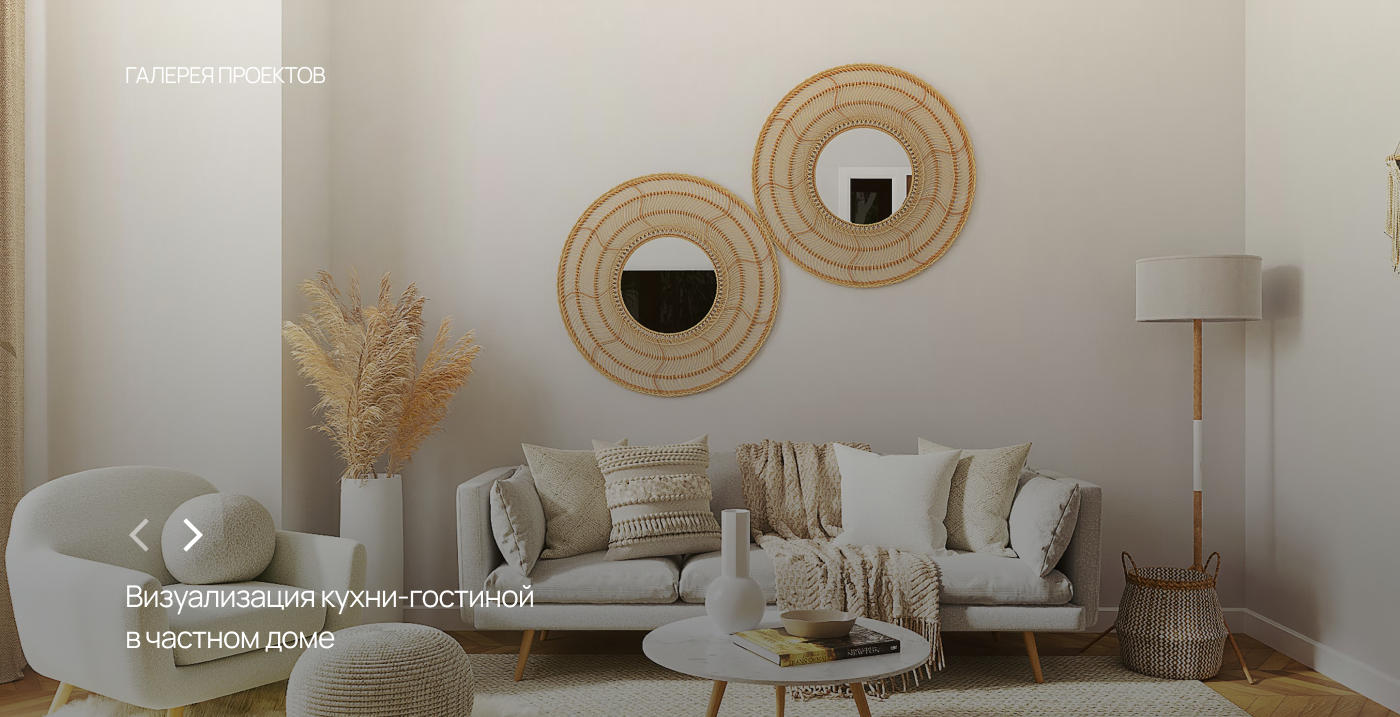
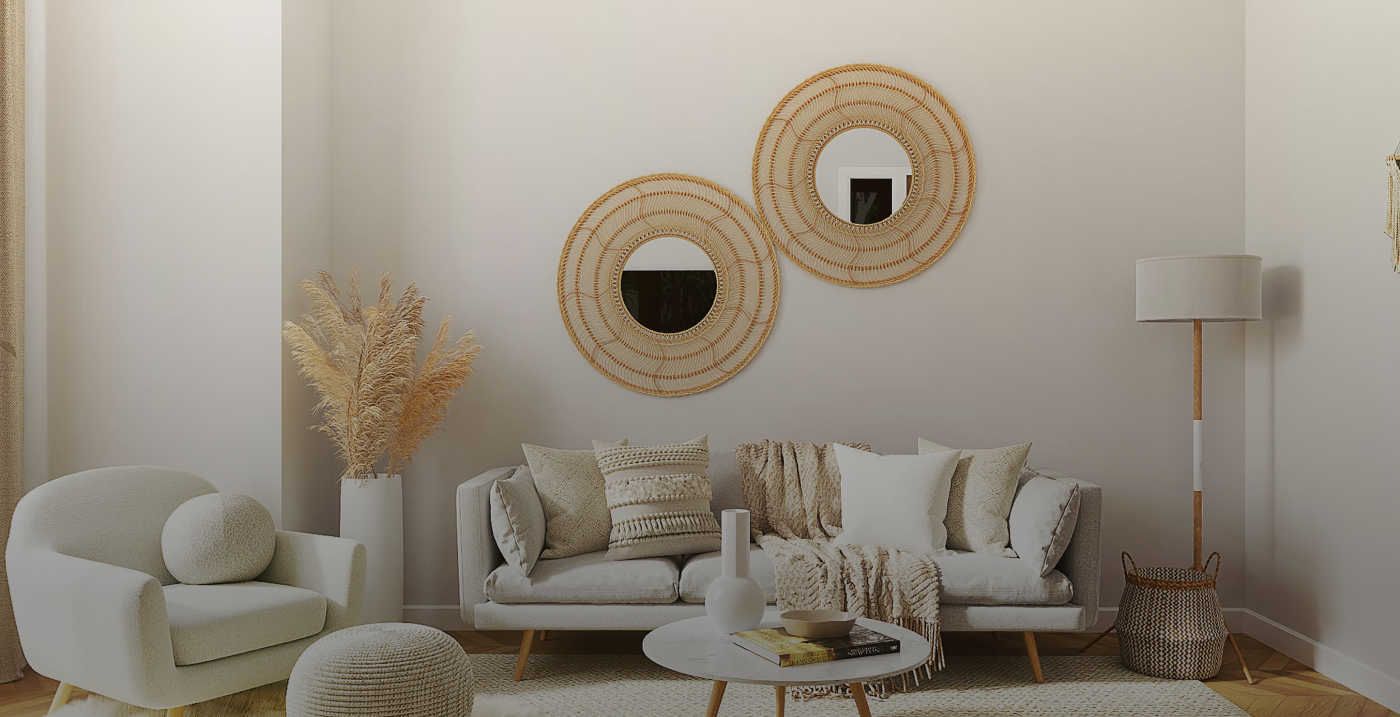
gallery block

Changed region(s): [[0.0921, 0.7978, 0.3993, 0.9205], [0.0921, 0.0921, 0.2457, 0.1227], [0.0921, 0.7364, 0.1536, 0.7671]]

diff --git a/index.html b/index.html
@@ -162,9 +162,53 @@
             </div>
         </section>
         <section class="gallery">
-            <div class="gallery__container _container">
-                <h2 class="gallery__title title">галерея проектов</h2>
-                <h3 class="gallery__subtitle">Проект Двухкомнатной квартиры в ЖК Лесной Пейзаж</h3>
+            <div class="gallery__title-wrapper">
+                <div class="_container">
+                    <h2 class="gallery__title title">галерея проектов</h2>
+                </div>
+            </div>
+            <div class="gallery__slides">
+                <div class="gallery__slide">
+                    <img src="img/gallery/1-1.png" alt="" class="gallery__pict">
+                    <div class="gallery__slide-wrapper">
+                        <div class="_container">
+                            <h3 class="gallery__subtitle">Проект  Двухкомнтаной квартиры в ЖК Лесной Пейзаж</h3>
+                        </div>
+                    </div>
+                </div>
+                <div class="gallery__slide gallery__slide_active">
+                    <img src="img/gallery/2.png" alt="" class="gallery__pict">
+                    <div class="gallery__slide-wrapper">
+                        <div class="_container">
+                            <h3 class="gallery__subtitle">Проект гостиной в ЖК Маяк</h3>
+                        </div>
+                    </div>
+                </div>
+                
+                <div class="gallery__slide">
+                    <img src="img/gallery/3.png" alt="" class="gallery__pict">
+                    <div class="gallery__slide-wrapper">
+                        <div class="_container">
+                            <h3 class="gallery__subtitle">Визуализация кухни-гостиной в частном доме</h3>
+                        </div>
+                    </div>
+                </div>
+                <div class="gallery__slide">
+                    <img src="img/gallery/4.png" alt="" class="gallery__pict">
+                    <div class="gallery__slide-wrapper">
+                        <div class="_container">
+                            <h3 class="gallery__subtitle">Проект кухни в скандинавском стиле для ЖК Северный Ветер</h3>
+                        </div>
+                    </div>
+                </div>
+                
+            </div>
+            <div class="_container">
+                <div class="gallery__controls">
+                
+                    <img class="gallery__control-prev" src="img/gallery/pref.png">
+                    <img class="gallery__control-next" src="img/gallery/next.png">
+                </div>
             </div>
         </section>
         <address class="contacts" id="contacts">
@@ -196,6 +240,9 @@
         </nav>
         <p class="footer__text">cтудия дизайна интерьера Метрика — 2023</p>
     </footer>
+    <script src="gallery.js"></script>
 </body>
 
 </html>
+
+<!-- Изменить медиа галереии, скачать моб фото проектов -->

diff --git a/#resources/layout/_gallery.scss b/#resources/layout/_gallery.scss
@@ -1,16 +1,13 @@
 .gallery {
-    background-image: url("../img/gallery/1-1.png");
-    background-size: cover;
-    background-repeat: no-repeat;
-    background-position: 50%;
-    height: 717px;
-
-    &__container {
-        margin-top: 10px;
-        position: relative;
-        height: 717px;
+    margin-top: 9px;
+    position: relative;
+    &__title-wrapper {
+        position: absolute;
+        top: 0;
+        left: 0;
+        width: 100%;
+        z-index: 10;
     }
-
     &__title {
         position: absolute;
         top: 60px;
@@ -19,12 +16,57 @@
         line-height: 30.05px;
     }
 
+    &__slides {
+        height: 717px;
+
+    }
+    &__slide {
+        position: absolute;
+        top: 0;
+        left: 0;
+        opacity: 0;
+        height: 717px;
+        width: 100%;
+
+        &_active {
+            opacity: 1;
+        }
+    }
+    &__pict {
+        position: absolute;
+        top: 0;
+        left: 0;
+        width: 100%;
+        height: 717px;
+        object-fit: cover;
+        object-position: 50%;
+    }
+    &__slide-wrapper {
+        position: absolute;
+        top: 0;
+        left: 0;
+        width: 100%;
+    }
     &__subtitle {
         position: absolute;
-        bottom: 60px;
+        top: 575px;
         font-size: 30px;
         line-height: 40.98px;
         width: 443px;
         color: white;
+    }
+    &__controls {
+        position: absolute;
+        top: 515px;
+        margin-left: -10px;
+        display: flex;
+    }
+    &__control-prev {
+        cursor: pointer;
+        margin-right: 14px;
+    }
+    &__control-next {
+        cursor: pointer;
+
     }
 }

diff --git a/css/style.css b/css/style.css
@@ -123,8 +123,7 @@ div {
 }
 
 .services,
-.reviews,
-.contacts {
+.reviews {
   padding-top: 150px;
 }
 
@@ -287,7 +286,7 @@ div {
 .reviews__list {
   display: flex;
   flex-wrap: wrap;
-  row-gap: 83px;
+  row-gap: 113px;
 }
 .reviews .review {
   margin-left: -2px;
@@ -308,16 +307,15 @@ div {
 }
 
 .gallery {
-  background-image: url("../img/gallery/1-1.png");
-  background-size: cover;
-  background-repeat: no-repeat;
-  background-position: 50%;
-  height: 717px;
-}
-.gallery__container {
-  margin-top: 10px;
+  margin-top: 9px;
   position: relative;
-  height: 717px;
+}
+.gallery__title-wrapper {
+  position: absolute;
+  top: 0;
+  left: 0;
+  width: 100%;
+  z-index: 10;
 }
 .gallery__title {
   position: absolute;
@@ -326,13 +324,55 @@ div {
   font-size: 22px;
   line-height: 30.05px;
 }
+.gallery__slides {
+  height: 717px;
+}
+.gallery__slide {
+  position: absolute;
+  top: 0;
+  left: 0;
+  opacity: 0;
+  height: 717px;
+  width: 100%;
+}
+.gallery__slide_active {
+  opacity: 1;
+}
+.gallery__pict {
+  position: absolute;
+  top: 0;
+  left: 0;
+  width: 100%;
+  height: 717px;
+  object-fit: cover;
+  object-position: 50%;
+}
+.gallery__slide-wrapper {
+  position: absolute;
+  top: 0;
+  left: 0;
+  width: 100%;
+}
 .gallery__subtitle {
   position: absolute;
-  bottom: 60px;
+  top: 575px;
   font-size: 30px;
   line-height: 40.98px;
   width: 443px;
   color: white;
+}
+.gallery__controls {
+  position: absolute;
+  top: 515px;
+  margin-left: -10px;
+  display: flex;
+}
+.gallery__control-prev {
+  cursor: pointer;
+  margin-right: 14px;
+}
+.gallery__control-next {
+  cursor: pointer;
 }
 
 .contacts__title {

diff --git a/gallery.js b/gallery.js
@@ -1,0 +1,38 @@
+const ACTIVE_SLIDE_CLASSNAME = 'gallery__slide_active';
+
+const slidesNodes = Array.from(document.querySelectorAll('.gallery__slide'));
+console.log(slidesNodes);
+const prevButtonNode = document.querySelector('.gallery__control-prev');
+const nextButtonNode = document.querySelector('.gallery__control-next');
+let activeId;
+
+init();
+
+function init() {
+    activeId = 0;
+    
+    prevButtonNode.addEventListener('click', () => {
+        console.log('hello');
+        setActiveSlideById(getPrevId());
+    });
+    
+    nextButtonNode.addEventListener('click', () => {
+        setActiveSlideById(getNextId());
+    });
+}
+
+function setActiveSlideById(id) {
+    const currentId = activeId;
+    activeId = id;
+
+    slidesNodes[currentId].classList.remove(ACTIVE_SLIDE_CLASSNAME);
+    slidesNodes[activeId].classList.add(ACTIVE_SLIDE_CLASSNAME);
+}
+
+function getPrevId() {
+    return activeId === 0 ? slidesNodes.length - 1 : activeId - 1;
+}
+
+function getNextId() {
+    return activeId === (slidesNodes.length - 1) ? 0: activeId + 1;
+}

diff --git a/#resources/layout/_reviews.scss b/#resources/layout/_reviews.scss
@@ -6,7 +6,7 @@
     &__list {
         display: flex;
         flex-wrap: wrap;
-        row-gap: 83px;
+        row-gap: 113px;
     }
     
     .review {

diff --git a/#resources/style.scss b/#resources/style.scss
@@ -48,8 +48,7 @@ div {
 }
 
 .services,
-.reviews,
-.contacts {
+.reviews {
     padding-top: 150px;
 }
 
